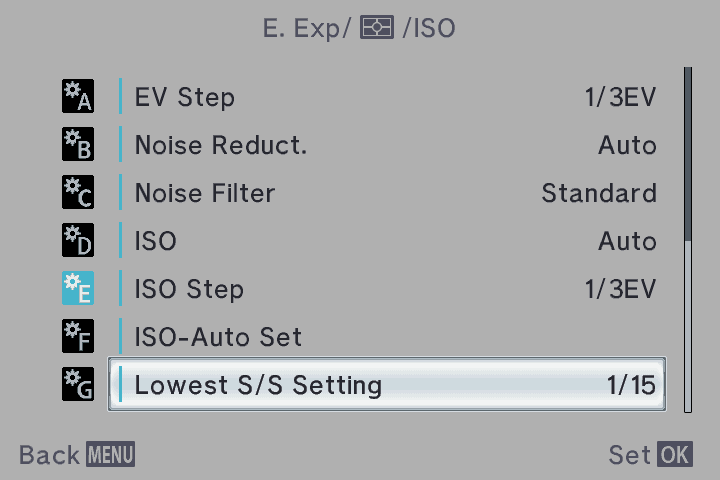
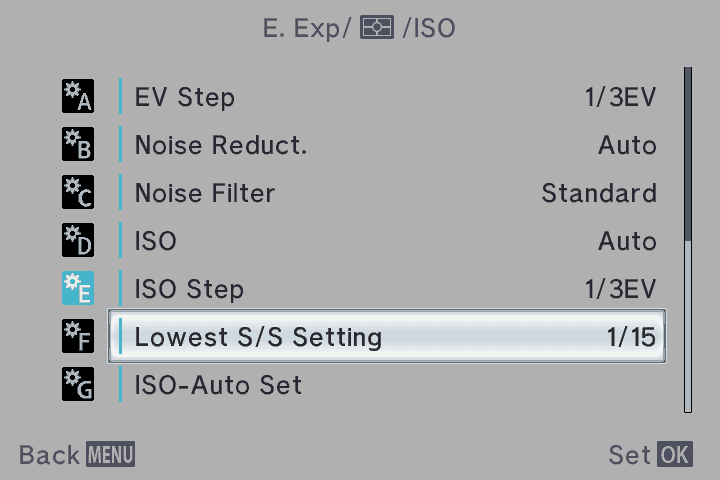
fix(lss): move the Lowest S/S row before ISO-Auto Set so its value box is aligned
The last row's value box drew its field below the text and arrows. The row
is now 6th; the box matches # Slow Limit's. Logs the first camera run.

Changed region(s): [[0.1222, 0.625, 0.9472, 0.875]]

diff --git a/experiments/2026-11-17-auto-iso-min-shutter/scripts/mkspec_lss_menu.py b/experiments/2026-11-17-auto-iso-min-shutter/scripts/mkspec_lss_menu.py
@@ -3,10 +3,10 @@
     uv run python experiments/2026-11-17-auto-iso-min-shutter/scripts/mkspec_lss_menu.py
 
 patches/custom-menu-rows-3.json takes the place of custom-menu-rows-2 in builds/stock-films.json. It is
-custom-menu-rows-2 with one row more: "Lowest S/S Setting" in group E after ISO-Auto Set (setting 653, panel 609,
+custom-menu-rows-2 with one row more: "Lowest S/S Setting" in group E before ISO-Auto Set (setting 653, panel 609,
 value -> text list 609). Why a new spec and not a delta: a delta cannot move or grow custom-menu-rows-2's item table,
 because `epm2mod make` refuses a change to a byte that custom-menu-rows-2 covers and keeps (byte 0xBF of the 10
-address loads, and 81 bytes of the table). NOTES.md section 8.
+address loads, and 81 bytes of the table). NOTES.md section 11.
   item table: 83 rows + the end group at 0x7EBF1FE0 (16 B earlier than custom-menu-rows-2's, so it still ends at
     0x7EBF2512, where stock-films-structure's BK0 starts); the 10 address loads point at it;
   child list: 84 entries in place at 0x7EE3CBF4 (8 B longer); Debug Log's value -> text list moves 8 B to 0x7EE3CE94;
@@ -42,7 +42,9 @@ LSS = "lss-menu"
 OLD_ITEMS, ITEMS_TABLE, KIDS = 0x7EBF1FF0, 0x7EBF1FE0, 0x7EE3CBF4
 OLD_ROWS, ROWS = 82, 83
 SETTING, PANEL, LABEL, HELP = 653, 609, 1503, 1504
-AFTER = 43                                       # index of ISO-Auto Set in custom-menu-rows-2's table
+AT = 43                                          # index of ISO-Auto Set in custom-menu-rows-2's table; the new row goes there
+# (before ISO-Auto Set: slot 6 of the page. In slot 7, the last, the # Slow Limit value box draws its field 20 px
+# below its text and arrows; NOTES.md section 11)
 ROW = struct.pack("<HHIHHHH", 4, LABEL, SETTING, 11, HELP, PANEL, 0)   # order 11: unused in group E
 KID = struct.pack("<II", PANEL, SETTING)
 OLD_DLOG_VT, DLOG_VT, DLOG_WORD = 0x7EE3CE8C, KIDS + (ROWS + 1) * 8, 0x7F014F94
@@ -131,20 +133,19 @@ def rows3(specs):
         if a == "0x%08X" % OLD_ITEMS:
             t = bytes.fromhex(x["new"])
             assert len(t) == OLD_ROWS * 16 + 2
-            assert struct.unpack_from("<HHI", t, AFTER * 16) == (4, 155, 2000), "row 43 is not ISO-Auto Set"
-            assert struct.unpack_from("<HH", t, (AFTER + 1) * 16) == (4, 154), "row 44 is not ISO-Auto"
-            cut = (AFTER + 1) * 16
+            assert struct.unpack_from("<HHI", t, AT * 16) == (4, 155, 2000), "row 43 is not ISO-Auto Set"
+            assert struct.unpack_from("<HH", t, (AT + 1) * 16) == (4, 154), "row 44 is not ISO-Auto"
+            cut = AT * 16
             o.add(ITEMS_TABLE, t[:cut] + ROW + t[cut:], "Custom Menu item table, 83 rows + the end group 98: the 82 "
                   "rows of custom-menu-rows-2 and {group 4, text %d 'Lowest S/S Setting', setting %d, order 11, help "
-                  "%d, value list %d, 0} at index %d, after ISO-Auto Set" % (LABEL, SETTING, HELP, PANEL, AFTER + 1))
+                  "%d, value list %d, 0} at index %d, before ISO-Auto Set" % (LABEL, SETTING, HELP, PANEL, AT))
         elif a == "0x%08X" % KIDS:
             k = bytes.fromhex(x["new"])
             assert len(k) == (OLD_ROWS + 1) * 8 and k[-8:] == bytes(8)
-            assert struct.unpack_from("<II", k, AFTER * 8) == (143, 112), "child 43 is not ISO-Auto Set's"
-            cut = (AFTER + 1) * 8
+            assert struct.unpack_from("<II", k, AT * 8) == (143, 112), "child 43 is not ISO-Auto Set's"
+            cut = AT * 8
             o.add(KIDS, k[:cut] + KID + k[cut:], "Custom Menu child list, 84 entries + zero entry, in place (8 B "
-                  "longer): custom-menu-rows-2's list and (panel %d, setting %d) at index %d" % (PANEL, SETTING,
-                                                                                            AFTER + 1))
+                  "longer): custom-menu-rows-2's list and (panel %d, setting %d) at index %d" % (PANEL, SETTING, AT))
         elif note.startswith("item-table address"):
             assert x["new"].endswith(struct.pack("<I", OLD_ITEMS).hex())
             o.add(int(a, 16), bytes.fromhex(x["new"][:4]) + struct.pack("<I", ITEMS_TABLE),
@@ -172,12 +173,12 @@ def rows3(specs):
     assert sum(1 for x in o.ops if x["new"] in [v[0] for v in CONSTS.values()]) == 9
     spec(ROWS3, "The Custom Menu with four added rows: Peaking in A after MF Assist, Load Looks and Debug Log in J "
          "(all three as patches/custom-menu-rows-2.json, whose place this spec takes) and Lowest S/S Setting in E "
-         "after ISO-Auto Set (setting %d, panel %d, value -> text list %d; the list and texts are in "
+         "before ISO-Auto Set (setting %d, panel %d, value -> text list %d; the list and texts are in "
          "patches/lss-menu.json, which a build with this spec needs). No stock row is changed. An 83-row copy of the "
          "item table at 0x%08X (10 address loads re-pointed), the 84-entry child list in place at 0x%08X (Debug Log's "
          "value -> text list moved to 0x%08X), 9 row constants (last index 82, count 83, row-state array 166 B), the "
          "group sizes of A (11), E (14) and J (8). Every expect is a byte string of the specs before "
-         "custom-menu-rows-2 in %s. See experiments/2026-11-17-auto-iso-min-shutter/NOTES.md section 8."
+         "custom-menu-rows-2 in %s. See experiments/2026-11-17-auto-iso-min-shutter/NOTES.md section 11."
          % (SETTING, PANEL, PANEL, ITEMS_TABLE, KIDS, DLOG_VT, BUILD), o.ops,
          _ram="the row-state array of the Custom Menu page grows by 8 bytes (158 -> 166) into 0x606A31B6-BD (the "
               "next addressed object is 0x606A32F0)")
@@ -234,7 +235,7 @@ def lss(specs):
     for tid, s in TEXTS.items():
         o.text(eng, tid, s)
     spec(LSS, "Lowest S/S Setting (GitHub issue #2), the menu part: the list and texts of the row that "
-         "patches/custom-menu-rows-3.json adds to Custom Menu E after ISO-Auto Set. Setting %d (prm tag 0x9F11, MODE "
+         "patches/custom-menu-rows-3.json adds to Custom Menu E before ISO-Auto Set. Setting %d (prm tag 0x9F11, MODE "
          "bank, u8, ROM and full-reset default 0; no stock code reads or writes it, experiments/2026-11-18-look-editor"
          "/settings.md) holds the index 0..55 of: Auto, 60\", 50\", 40\", 30\" ... 1/250 (the stock # Slow Limit "
          "records), 1/320 ... 1/4000. Panel 609 (a list page of the dormant setting 448) gets the 56 items, the "

diff --git a/experiments/2026-11-17-auto-iso-min-shutter/NOTES.md b/experiments/2026-11-17-auto-iso-min-shutter/NOTES.md
@@ -288,15 +288,27 @@ Probes for a debug build (describe only; `logs/events.json` and the generator we
 
 ## 11. Menu row "Lowest S/S Setting" (asked for as "8. Menu row"; the number 8 is taken above)
 
-Date: 2026-11-19. Emulator only. Not flashed. `epm2mod make` refuses the build (free-space check, see "Space").
+Date: 2026-11-19. Emulator only. Not flashed. The row moved before ISO-Auto Set on 2026-11-19 (11.1); `builds/lss.json`
+is made with `epm2mod make` (11.5).
 
 ![Row](results/lss-row-auto.png) ![List](results/lss-list-auto.png) ![1/15](results/lss-row-1-15.png)
 
 ### 11.1 Where the row is
 
-MENU → Custom Menu → **E. Exp/ ▣ /ISO** → **Lowest S/S Setting** (the 7th row, after ISO-Auto Set) → RIGHT opens
-the value box (▲ value ▼, the box of # Slow Limit) → UP/DOWN → OK. Values: Auto, 60, 50 … 1, 1/1.3 … 1/4000. Seconds
-show without a mark (as the stock # Slow Limit list). Default Auto.
+MENU → Custom Menu → **E. Exp/ ▣ /ISO** → **Lowest S/S Setting** (the 6th row, after ISO Step; ISO-Auto Set is now
+the 7th) → RIGHT opens the value box (▲ value ▼, the box of # Slow Limit) → UP/DOWN → OK. Values: Auto, 60, 50 … 1,
+1/1.3 … 1/4000. Seconds show without a mark (as the stock # Slow Limit list). Default Auto.
+
+**Why before ISO-Auto Set (2026-11-19).** In the first candidate the row was the 7th (after ISO-Auto Set), the last
+row of the page. There the value box is moved up to fit the screen, but its white field is not: the text and the
+arrows sit about 20 px above the field, and the field covers the ▼ arrow. The owner saw this on the camera; the
+emulator shows the same (old `results/` screenshot of 2026-11-19, column x = 575 against `slow-limit-250.png`: the
+frame lines and the field start at other offsets). Cause: the # Slow Limit page class 0x7EE01678 places the frame,
+arrows and text by the room left on the screen, the field by the row (I, from the pictures; the class code was not
+read). Fix: the row goes before ISO-Auto Set, so it is the 6th row. In the 6th row every pixel of the box outside the
+text, in columns x = 470, 520, 575 and 660, is at the same offset from the row centre as on # Slow Limit (2nd row of
+F) (V emulator, `results/lss-list-auto.png`, `lss-list-1-15.png` against `slow-limit-250.png`). ISO-Auto Set in the
+7th row has no value box: it opens its own screen (`results/lss-iso-auto-set-screen.png`).
 
 Not in the ISO-Auto Set screen (the PEN-F place), V: that screen is page 143, a page class of its own (0x7EDE6826–
 0x7EDE6DD8) on panel 83 (two fields, shared with pages 126 and 453). The class code knows two fields with ISO index
@@ -328,8 +340,9 @@ descriptor now names setting 653.
   of each of the 10 item-table address loads, 81 bytes of its table, 35 of its child list; V, `spec.py`
   `_check_kept_bytes`). So the row needs a new table spec, as `custom-menu-rows-2` replaced `custom-menu-rows`.
   - item table: 83 rows at **0x7EBF1FE0** (16 B earlier, still ends at 0x7EBF2512 where `stock-films-structure`
-    BK0 starts); row `{4, 1503, 653, order 11, 1504, value list 609, 0}` at index 44; 10 address loads.
-  - child list: 84 entries in place at 0x7EE3CBF4, (609, 653) at index 44. Debug Log's value list moves 8 B to
+    BK0 starts); row `{4, 1503, 653, order 11, 1504, value list 609, 0}` at index 43, before ISO-Auto Set (44);
+    10 address loads.
+  - child list: 84 entries in place at 0x7EE3CBF4, (609, 653) at index 43. Debug Log's value list moves 8 B to
     0x7EE3CE94 (word 0x7F014F94).
   - constants: last index 82, count 83, row-state array 166 B (RAM to 0x606A31BD; next object 0x606A32F0, R);
     rows in group E 13 → 14 (.data 0x7E8EE858). Everything else as `custom-menu-rows-2`.
@@ -347,7 +360,7 @@ descriptor now names setting 653.
     `level-gauge-lvinfo-row`). Other languages show the old EVF texts.
   - No code, no hook.
 
-### 11.4 Space (the open decision)
+### 11.4 Space (decided: the evidence rows of commit bd4f8a5 make the area pass)
 
 The two lists need 1,568 B and 1,368 B in one piece each. After the pinned build no USABLE area has a run that size
 (largest free runs 733 B in segment 3 and 408 B in segment 2; `level-adjust-row`'s dead tables at 0x7EBF3000 are
@@ -357,30 +370,33 @@ gives it NEEDS-DECISION: two pointer hits that it calls unaligned data words (0x
 data) and no proven bound for the string before it (ends with its NUL at 0x7EBB1F4B). `make` fails with exactly
 these two FAIL lines; every other line passes.
 
-Ways on: (a) the owner accepts the area (two rows in `docs/space-pointer-waivers.tsv` and one in
-`docs/space-bounds.tsv`); (b) no decision: build the value → text list in RAM by code at the first GUI state and
-take `level-adjust-row` out of the build (`custom-menu-rows-3` covers all its live bytes), so the items fit in
-0x7EBF2E68–0x7EBF3780.
+Decided way (a): the pointer waiver (OKAO model data) and the bound of the Bluetooth switch table (0x7EBB1F08,
+11 entries) are in `docs/space-pointer-waivers.tsv` and `docs/space-bounds.tsv` since commit bd4f8a5, and the
+free-space check passes. The fallback (b) was: build the value → text list in RAM by code at the first GUI state and
+take `level-adjust-row` out of the build.
 
 ### 11.5 Checks
 
-The image for the emulator was made with `epm2mod.spec.apply_specs` (the code of `make` without the free-space
[1 lines of base64/hex data omitted]
+Build `builds/lss.json` (row before ISO-Auto Set, with `lss-core`), made with `uv run epm2mod make builds/lss.json`:
[1 lines of base64/hex data omitted]
+ISO-Auto Set) was `1ce469bf…aa8`.
 
 | Check | Result |
 |---|---|
-| `tools/freespace.py check` (all 15 specs) | exit 1: 2 FAIL, both `lss-menu` in the NEEDS-DECISION area; `custom-menu-rows-3` PASS |
-| `tools/emu/boot-test` | exit 0, PASS |
-| `tools/emu/update-path-test` | exit 0, PASS |
-| `tools/emu/hookcheck.py custom-menu-rows-3 lss-menu` | exit 0; 5 transfers, all `custom-menu-rows-2`'s peaking hooks (kernel → kernel); no new hook |
-| Crawl `p-nocard-shallow` against `stock-films` (`crawlcmp.py`) | 269 screens equal outside the Custom Menu rows; rows 82 → 83 screens: 13 lost and 14 new, all cursor positions of group E; firmware errors and notes equal |
-| `shotdiff.sh` D → Info Settings and its 4 sub-lists | 0 of 12 differ (texts 1503/1504 not shown there) |
-| Value list | Auto → 1/4000 in 55 DOWN, the 56th wraps to Auto; MENU cancels (`results/lss-list-1-4000.png`) |
-| 1/15 kept | tag 0x9F11 = 0 before, 31 after OK; 31 after a restart with the RAM banks kept and after a restart from flash only; the row shows 1/15 (`results/lss-row-after-restart.png`) |
+| `epm2mod make` (free-space check inside) | exit 0; check PASS (0 FAIL) |
+| `tools/emu/boot-test builds/lss.json` | exit 0, PASS |
+| `tools/emu/update-path-test builds/lss.json` | exit 0, PASS |
+| `tools/emu/opcheck.py builds/lss.json` | exit 0; 16 specs, 501 byte ops, 0 FAIL |
+| Crawl `p-nocard-shallow`, `crawlcmp.py` against `stock-films` | exit 0; 269 screens equal outside the Custom Menu rows; rows 82 → 83: 13 lost, 14 new, all cursor positions of group E; firmware errors equal |
+| The same against the first `lss` image (row after ISO-Auto Set) | exit 0; 269 equal; rows 83 / 83: 7 lost, 7 new, the cursor positions of the first page of E |
+| `shotdiff.sh` D → Info Settings and its 4 sub-lists (first candidate) | 0 of 12 differ (texts 1503/1504 not shown there) |
+| Value box, 6th row | aligned as # Slow Limit: columns x = 470, 520, 575, 660 equal to `slow-limit-250.png` relative to the row centre (`results/lss-list-auto.png`, `lss-list-1-15.png`, `lss-list-1-4000.png`) |
+| Value list | Auto → 1/4000 in 55 DOWN, the 56th wraps to Auto (OK stores 0) |
+| ISO-Auto Set, 7th row | RIGHT opens its High Limit / Default screen (`results/lss-iso-auto-set-slot7.png`, `lss-iso-auto-set-screen.png`) |
+| 1/15 kept | tag 0x9F11 = 31 after OK; 31 after a restart with the RAM banks kept, then after a restart from flash only; the row shows 1/15 (`results/lss-row-after-restart.png`). A restart from flash only straight after the setting session read 0: the emulator writes the bank to flash later in the next session (I, emulator stand-in; the camera saves at power-off) |
 
 Not checked: the help text (the emulator shows no help text for any row), other languages, the owner's stored
-value of 653 (U; 0 expected), the value box's text sits about 20 px above the box's centre on this bottom row (the
-same box on # Slow Limit, the 2nd row, is centred; cosmetic, I: the box is moved up to fit the screen).
+value of 653 (U; 0 expected).
 
 ## 12. Exposure part "lss-core" (2026-11-19)
 
@@ -460,9 +476,24 @@ free-space PASS; boot-test PASS; update-path-test PASS; hookcheck: all lss-core 
 
 | # | Criterion | How checked | State |
 |---|---|---|---|
-| 1 | Custom Menu E has a row Lowest S/S Setting after ISO-Auto Set; Auto by default | emulator screenshots (section 11) | pass (emulator) |
+| 1 | Custom Menu E has a row Lowest S/S Setting before ISO-Auto Set; Auto by default; its value box is drawn aligned | emulator screenshots (section 11) | pass (emulator) |
 | 2 | The list goes Auto, 60" … 1/4000 in 1/3 EV; the value survives power off | emulator | pass (emulator) |
 | 3 | P and A, ISO Auto, no flash: ISO starts to rise at the chosen speed | harness vs PEN-F; camera | pass (harness); camera not run |
 | 4 | Slower than the stock speed: P first lowers the shutter at base ISO down to it | harness vs PEN-F; camera | pass (harness); camera not run |
 | 5 | Auto, flash on, manual ISO, other modes: exposure as before | harness vs stock; camera | pass (harness); camera not run |
 | 6 | Nothing that works today breaks (start, update, menus, looks, peaking, level gauge, Debug Log) | boot/update tests, menu crawl; camera | pass (emulator); camera not run |
+
+### 12.6 First camera run (build `1ce469bf…aa8`, 2026-11-19; photos PB180001–012, 17 mm f/2.8, −0.3 EV, High Limit 6400)
+
+| Shots | Setting | Camera | Harness, same scene (`bv` −1.0) |
+|---|---|---|---|
+| 1–3 | P, Auto | 1/60 f/2.8 ISO 2500 | 1/65 ISO 2542 |
+| 4–6 | P, 1/250 | 1/160–1/200 ISO 6400 | 1/165 ISO 6400 |
+| 7–9 | P, 1/8 (planned) | 1/160 ISO 6400 | 1/8 ISO 317 |
+| 10–12 | A f/5.6, 1/125 | 1/40 ISO 6400 | ISO at the High Limit: same as stock, no test |
+
+- V: the camera reads setting 653 and the new code changes the exposure (shots 4–6 differ from stock as the harness says).
+- U: shots 7–9 equal shot 4, the result with 1/250. Inferred: the value was still 1/250 (the misaligned box of this
+  build); the owner was asked. Retest in the next run, in P and in A at f/2.8.
+- Fault seen: the value box of the last row (slot 7) was misaligned; fixed by moving the row to slot 6 (section 11.1),
+  build `2b15214b…9f5b`.

diff --git a/docs/camera-log.md b/docs/camera-log.md
@@ -6,7 +6,8 @@ Body: Olympus PEN E-PM2. It was on body 1.6 and lens 1.1 before the first flash.
 
 | Date (UTC) | Build | sha256 | Result |
 |---|---|---|---|
[6 lines of base64/hex data omitted]
